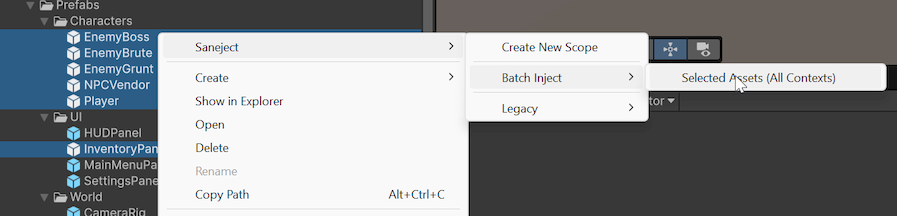
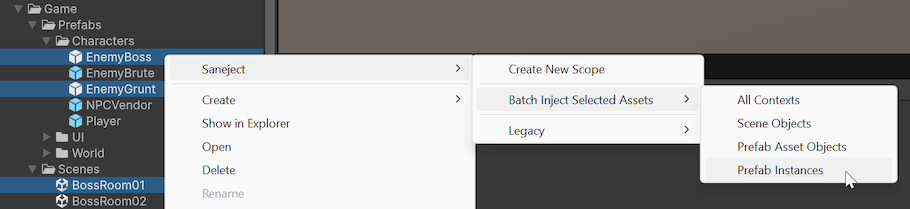
Expand batch injection documentation for context filter menus

diff --git a/Docs/docs/editor-and-tooling/injection-toolbar-and-context-menus.md b/Docs/docs/editor-and-tooling/injection-toolbar-and-context-menus.md
@@ -36,14 +36,28 @@ Saneject exposes the same grouped injection commands in multiple Unity menus.
 
 ![Saneject injection context menus](../../images/injection-context-menus.webp)
 
-- Main menu: `Saneject/Inject Scene/...`, `Saneject/Inject Selected Scene Hierarchies/...`, `Saneject/Inject Prefab Asset/...`
-- Hierarchy [context](../reference/glossary.md#context) menu: `GameObject/Saneject/Inject Scene/...`, `GameObject/Saneject/Inject Selected Scene Hierarchies/...`, `GameObject/Saneject/Inject Prefab Asset/...`
-- Project window [context](../reference/glossary.md#context) menu: `Assets/Saneject/Batch Inject/Selected Assets (All Contexts)`
-- Main menu batch shortcut: `Saneject/Batch Inject/Selected Assets (All Contexts)`
+- Main menu:
+    - `Saneject/Inject Scene/...`
+    - `Saneject/Inject Selected Scene Hierarchies/...`
+    - `Saneject/Inject Prefab Asset/...`
+- Hierarchy context menu:
+    - `GameObject/Saneject/Inject Scene/...`
+    - `GameObject/Saneject/Inject Selected Scene Hierarchies/...`
+    - `GameObject/Saneject/Inject Prefab Asset/...`
+- Project window context menu:
+    - `Assets/Saneject/Batch Inject Selected Assets/All Contexts`
+    - `Assets/Saneject/Batch Inject Selected Assets/Scene Objects`
+    - `Assets/Saneject/Batch Inject Selected Assets/Prefab Asset Objects`
+    - `Assets/Saneject/Batch Inject Selected Assets/Prefab Instances`
+- Main menu batch shortcuts:
+    - `Saneject/Batch Inject Selected Assets/All Contexts`
+    - `Saneject/Batch Inject Selected Assets/Scene Objects`
+    - `Saneject/Batch Inject Selected Assets/Prefab Asset Objects`
+    - `Saneject/Batch Inject Selected Assets/Prefab Instances`
 
 There is also a dedicated [batch injector](../reference/glossary.md#batch-injector) window:
 
-- `Saneject/Batch Inject/Open Batch Injector Window`
+- `Saneject/Open Batch Injector Window`
 
 That window is covered in [Batch injection](batch-injection.md).
 
@@ -116,7 +130,7 @@ Behavior:
 
 ## Filter labels used in menu names
 
-Menu labels map directly to `ContextWalkFilter` values:
+Menu labels in these command groups, including `Batch Inject Selected Assets/...`, map directly to `ContextWalkFilter` values:
 
 | Menu label suffix            | Context walk filter       | Included contexts                                                                                                                                                                   |
 |------------------------------|---------------------------|-------------------------------------------------------------------------------------------------------------------------------------------------------------------------------------|
@@ -124,7 +138,7 @@ Menu labels map directly to `ContextWalkFilter` values:
 | `Scene Objects`              | `SceneObjects`            | [Scene object](../reference/glossary.md#scene-object) [contexts](../reference/glossary.md#context) only                                                                             |
 | `Prefab Instances`           | `PrefabInstances`         | [Prefab instance](../reference/glossary.md#prefab-instance) [contexts](../reference/glossary.md#context) only                                                                       |
 | `Prefab Asset Objects`       | `PrefabAssetObjects`      | [Prefab asset](../reference/glossary.md#prefab-asset) [contexts](../reference/glossary.md#context) only                                                                             |
-| `Same Contexts As Selection` | `SameContextsAsSelection` | [Contexts](../reference/glossary.md#context) matching selected start object [contexts](../reference/glossary.md#context)                                                            |
+| `Same Contexts As Selection` | `SameContextsAsSelection` | [Contexts](../reference/glossary.md#context) matching selected start object contexts only                                                                                           |
 
 `ContextWalkFilter` controls what enters the run. It does not override [context isolation](../reference/glossary.md#context-isolation).
 [Context isolation](../reference/glossary.md#context-isolation) is configured in [project settings](../reference/glossary.md#project-settings) and still applies during resolution.
@@ -134,13 +148,22 @@ See [Context](../core-concepts/context.md).
 
 Entry points:
 
-- Main toolbar: `Batch Inject Selected Assets`
-- `Assets/Saneject/Batch Inject/Selected Assets (All Contexts)`
-- `Saneject/Batch Inject/Selected Assets (All Contexts)`
+- Main toolbar: `Batch Inject Selected Assets` (`ContextWalkFilter.AllContexts`)
+- `Assets/Saneject/Batch Inject Selected Assets/All Contexts`
+- `Assets/Saneject/Batch Inject Selected Assets/Scene Objects`
+- `Assets/Saneject/Batch Inject Selected Assets/Prefab Asset Objects`
+- `Assets/Saneject/Batch Inject Selected Assets/Prefab Instances`
+- `Saneject/Batch Inject Selected Assets/All Contexts`
+- `Saneject/Batch Inject Selected Assets/Scene Objects`
+- `Saneject/Batch Inject Selected Assets/Prefab Asset Objects`
+- `Saneject/Batch Inject Selected Assets/Prefab Instances`
 
 ![Saneject batch injection main toolbar](../../images/batch-injection-main-toolbar.webp)
 
 ![Saneject batch injection context menu](../../images/batch-injection-context-menu.webp)
+
+> Note: The screenshot above predates the menu rename and only shows the older `Selected Assets (All Contexts)` path.
+> Use the `Assets/Saneject/Batch Inject Selected Assets/...` and `Saneject/Batch Inject Selected Assets/...` paths listed above in current versions.
 
 Availability:
 
@@ -150,7 +173,7 @@ Availability:
 Behavior:
 
 1. Collect selected scene and [prefab assets](../reference/glossary.md#prefab-asset).
-2. Assign `AllContexts` filter to each collected asset.
+2. Apply the `ContextWalkFilter` chosen by the toolbar button or menu item to each collected asset.
 3. Show batch confirmation dialog with scene and prefab counts.
 4. Ask to save currently modified open scenes before running.
 5. Inject each selected scene and [prefab asset](../reference/glossary.md#prefab-asset).
@@ -158,6 +181,9 @@ Behavior:
 7. Log per-asset sections and final batch summary.
 
 If an injected asset has no `Scope` components, the run logs that nothing was injected for that asset or run.
+
+The toolbar button stays on `AllContexts`; the menu variants give you focused batch runs for `SceneObjects`, `PrefabAssetObjects`, or `PrefabInstances`.
+The chosen filter is forwarded as-is to every collected asset, so mixed scene/prefab selections only process matching [contexts](../reference/glossary.md#context) inside each asset.
 
 ## Confirmation dialogs
 

diff --git a/Docs/docs/editor-and-tooling/batch-injection.md b/Docs/docs/editor-and-tooling/batch-injection.md
@@ -22,7 +22,7 @@ The window is designed for repeatable, project-scale [batch injection](../refere
 
 Menu path:
 
-- `Saneject/Batch Inject/Open Batch Injector Window`
+- `Saneject/Open Batch Injector Window`
 
 ### 2. Selected assets from menus or toolbar
 
@@ -30,26 +30,37 @@ Use this when you want a targeted pass for a folder or a specific Project window
 
 Entry points:
 
-- Main toolbar: `Batch Inject Selected Assets`
-- `Assets/Saneject/Batch Inject/Selected Assets (All Contexts)`
-- `Saneject/Batch Inject/Selected Assets (All Contexts)`
+- Main toolbar: `Batch Inject Selected Assets` (`ContextWalkFilter.AllContexts`)
+- Project window context menu: `Assets/Saneject/Batch Inject Selected Assets/All Contexts`
+- Project window context menu: `Assets/Saneject/Batch Inject Selected Assets/Scene Objects`
+- Project window context menu: `Assets/Saneject/Batch Inject Selected Assets/Prefab Asset Objects`
+- Project window context menu: `Assets/Saneject/Batch Inject Selected Assets/Prefab Instances`
+- Main menu: `Saneject/Batch Inject Selected Assets/All Contexts`
+- Main menu: `Saneject/Batch Inject Selected Assets/Scene Objects`
+- Main menu: `Saneject/Batch Inject Selected Assets/Prefab Asset Objects`
+- Main menu: `Saneject/Batch Inject Selected Assets/Prefab Instances`
 
 ![Saneject Batch Inject Main Toolbar](../../images/batch-injection-main-toolbar.webp)
 
 ![Saneject Batch Inject Selected Assets](../../images/batch-injection-context-menu.webp)
-
+ 
 `Batch Inject Selected Assets` appears when the current Project selection includes at least one scene asset, [prefab asset](../reference/glossary.md#prefab-asset), or folder that contains them.
-This workflow always uses `ContextWalkFilter.AllContexts`.
+
+The toolbar button is the quick `AllContexts` version.
+The menu variants let you batch inject the same selection with `SceneObjects`, `PrefabAssetObjects`, or `PrefabInstances`.
 
 Behavior:
 
 1. Saneject scans the current Project selection using deep asset selection.
 2. It keeps scene assets and [prefab assets](../reference/glossary.md#prefab-asset).
-3. It assigns `ContextWalkFilter.AllContexts` to every collected asset.
+3. It applies the `ContextWalkFilter` selected by the toolbar button or menu item to every collected asset.
 4. It optionally shows a confirmation dialog (controlled by `Ask Before Batch Inject` in `Saneject/Settings`).
 5. It asks whether modified open scenes should be saved.
 6. It injects the selected scenes and prefabs.
 7. It logs per-asset output plus a final batch summary.
+
+The selected-assets menu variants do not remap filters per asset type.
+The chosen filter is forwarded as-is to every collected scene and [prefab asset](../reference/glossary.md#prefab-asset), so a mixed selection only processes the [contexts](../reference/glossary.md#context) that match that filter inside each asset.
 
 ## Batch Injector window features
 
@@ -89,7 +100,7 @@ List and window state are persisted to:
 
 ### Multi-select and context menu actions
 
-Both lists support multi-selection and a [context](../reference/glossary.md#context) menu with:
+Both lists support multi-selection and a context menu with:
 
 - `Inject Selected`: Runs [batch injection](../reference/glossary.md#batch-injection) only for the currently selected rows.
 - `Enable` / `Disable`: Toggles whether rows are included when using the bottom `Inject All` and `Inject Scenes/Prefabs` buttons.
@@ -112,7 +123,7 @@ Bottom buttons run injection for enabled rows:
 - `Inject Scenes`
 - `Inject Prefabs`
 
-`Inject Selected` from the row [context](../reference/glossary.md#context) menu injects the selected rows directly, even if some of those rows are disabled.
+`Inject Selected` from the row context menu injects the selected rows directly, even if some of those rows are disabled.
 
 ## Injection status meanings
 
@@ -148,7 +159,19 @@ For more information on logging, see [Logging & validation](logging-and-validati
 
 ## Context filter rules in batch injection
 
-`ContextWalkFilter` is configured per asset in the [Batch Injector](../reference/glossary.md#batch-injector) window.
+`ContextWalkFilter` can be chosen in two places:
+
+- Per run from the `Batch Inject Selected Assets/...` menu variants.
+- Per asset in the [Batch Injector](../reference/glossary.md#batch-injector) window.
+
+Selected-assets batch menu variants use these labels:
+
+- `All Contexts`
+- `Scene Objects`
+- `Prefab Asset Objects`
+- `Prefab Instances`
+
+Those commands apply the chosen filter to every collected asset in that run.
 
 Allowed values depend on asset type:
 

diff --git a/Docs/docs/getting-started/feature-overview.md b/Docs/docs/getting-started/feature-overview.md
@@ -45,7 +45,7 @@ title: Feature overview
 
 ## Tooling & validation
 
-- **Contextual toolbar buttons and [injection context menus](../reference/glossary.md#injection-context-menu):** The main toolbar exposes `Inject Scene`, `Inject Selected Scene Hierarchies`, `Inject Prefab Asset`, and `Batch Inject Selected Assets` when they apply, while [injection context menus](../reference/glossary.md#injection-context-menu) let you run more focused scene, hierarchy, and prefab passes with specific [context walk filter](../reference/glossary.md#context-walk-filter) values.
+- **Contextual toolbar buttons and [injection context menus](../reference/glossary.md#injection-context-menu):** The main toolbar exposes `Inject Scene`, `Inject Selected Scene Hierarchies`, `Inject Prefab Asset`, and `Batch Inject Selected Assets` when they apply, while [injection context menus](../reference/glossary.md#injection-context-menu) let you run more focused scene, hierarchy, prefab, and selected-asset batch passes with specific [context walk filter](../reference/glossary.md#context-walk-filter) values.
 - **[Batch injection](../reference/glossary.md#batch-injection):** [Batch Injector](../reference/glossary.md#batch-injector) can inject all (or selected) scenes and prefabs in a project in one click.
 - **Structured logging and validation:** Structured logging and validation with per-run and batch summaries help make dependency validation repeatable and easier to audit.
 - **Configurable settings:** Settings cover injection prompts, logging, [context](../reference/glossary.md#context) behavior, and proxy generation.

diff --git a/Docs/docs/core-concepts/context.md b/Docs/docs/core-concepts/context.md
@@ -109,6 +109,7 @@ A common workflow is:
 You can pick run filters from:
 
 - [Injection context menu](../reference/glossary.md#injection-context-menu) items.
+- `Batch Inject Selected Assets` menu items under `Assets/Saneject/Batch Inject Selected Assets/...` and `Saneject/Batch Inject Selected Assets/...`.
 - The `ContextWalkFilter` dropdown in the [Batch Injector](../reference/glossary.md#batch-injector) window for supported scene and [prefab asset](../reference/glossary.md#prefab-asset) runs.
 
 ## Isolation vs filtering
